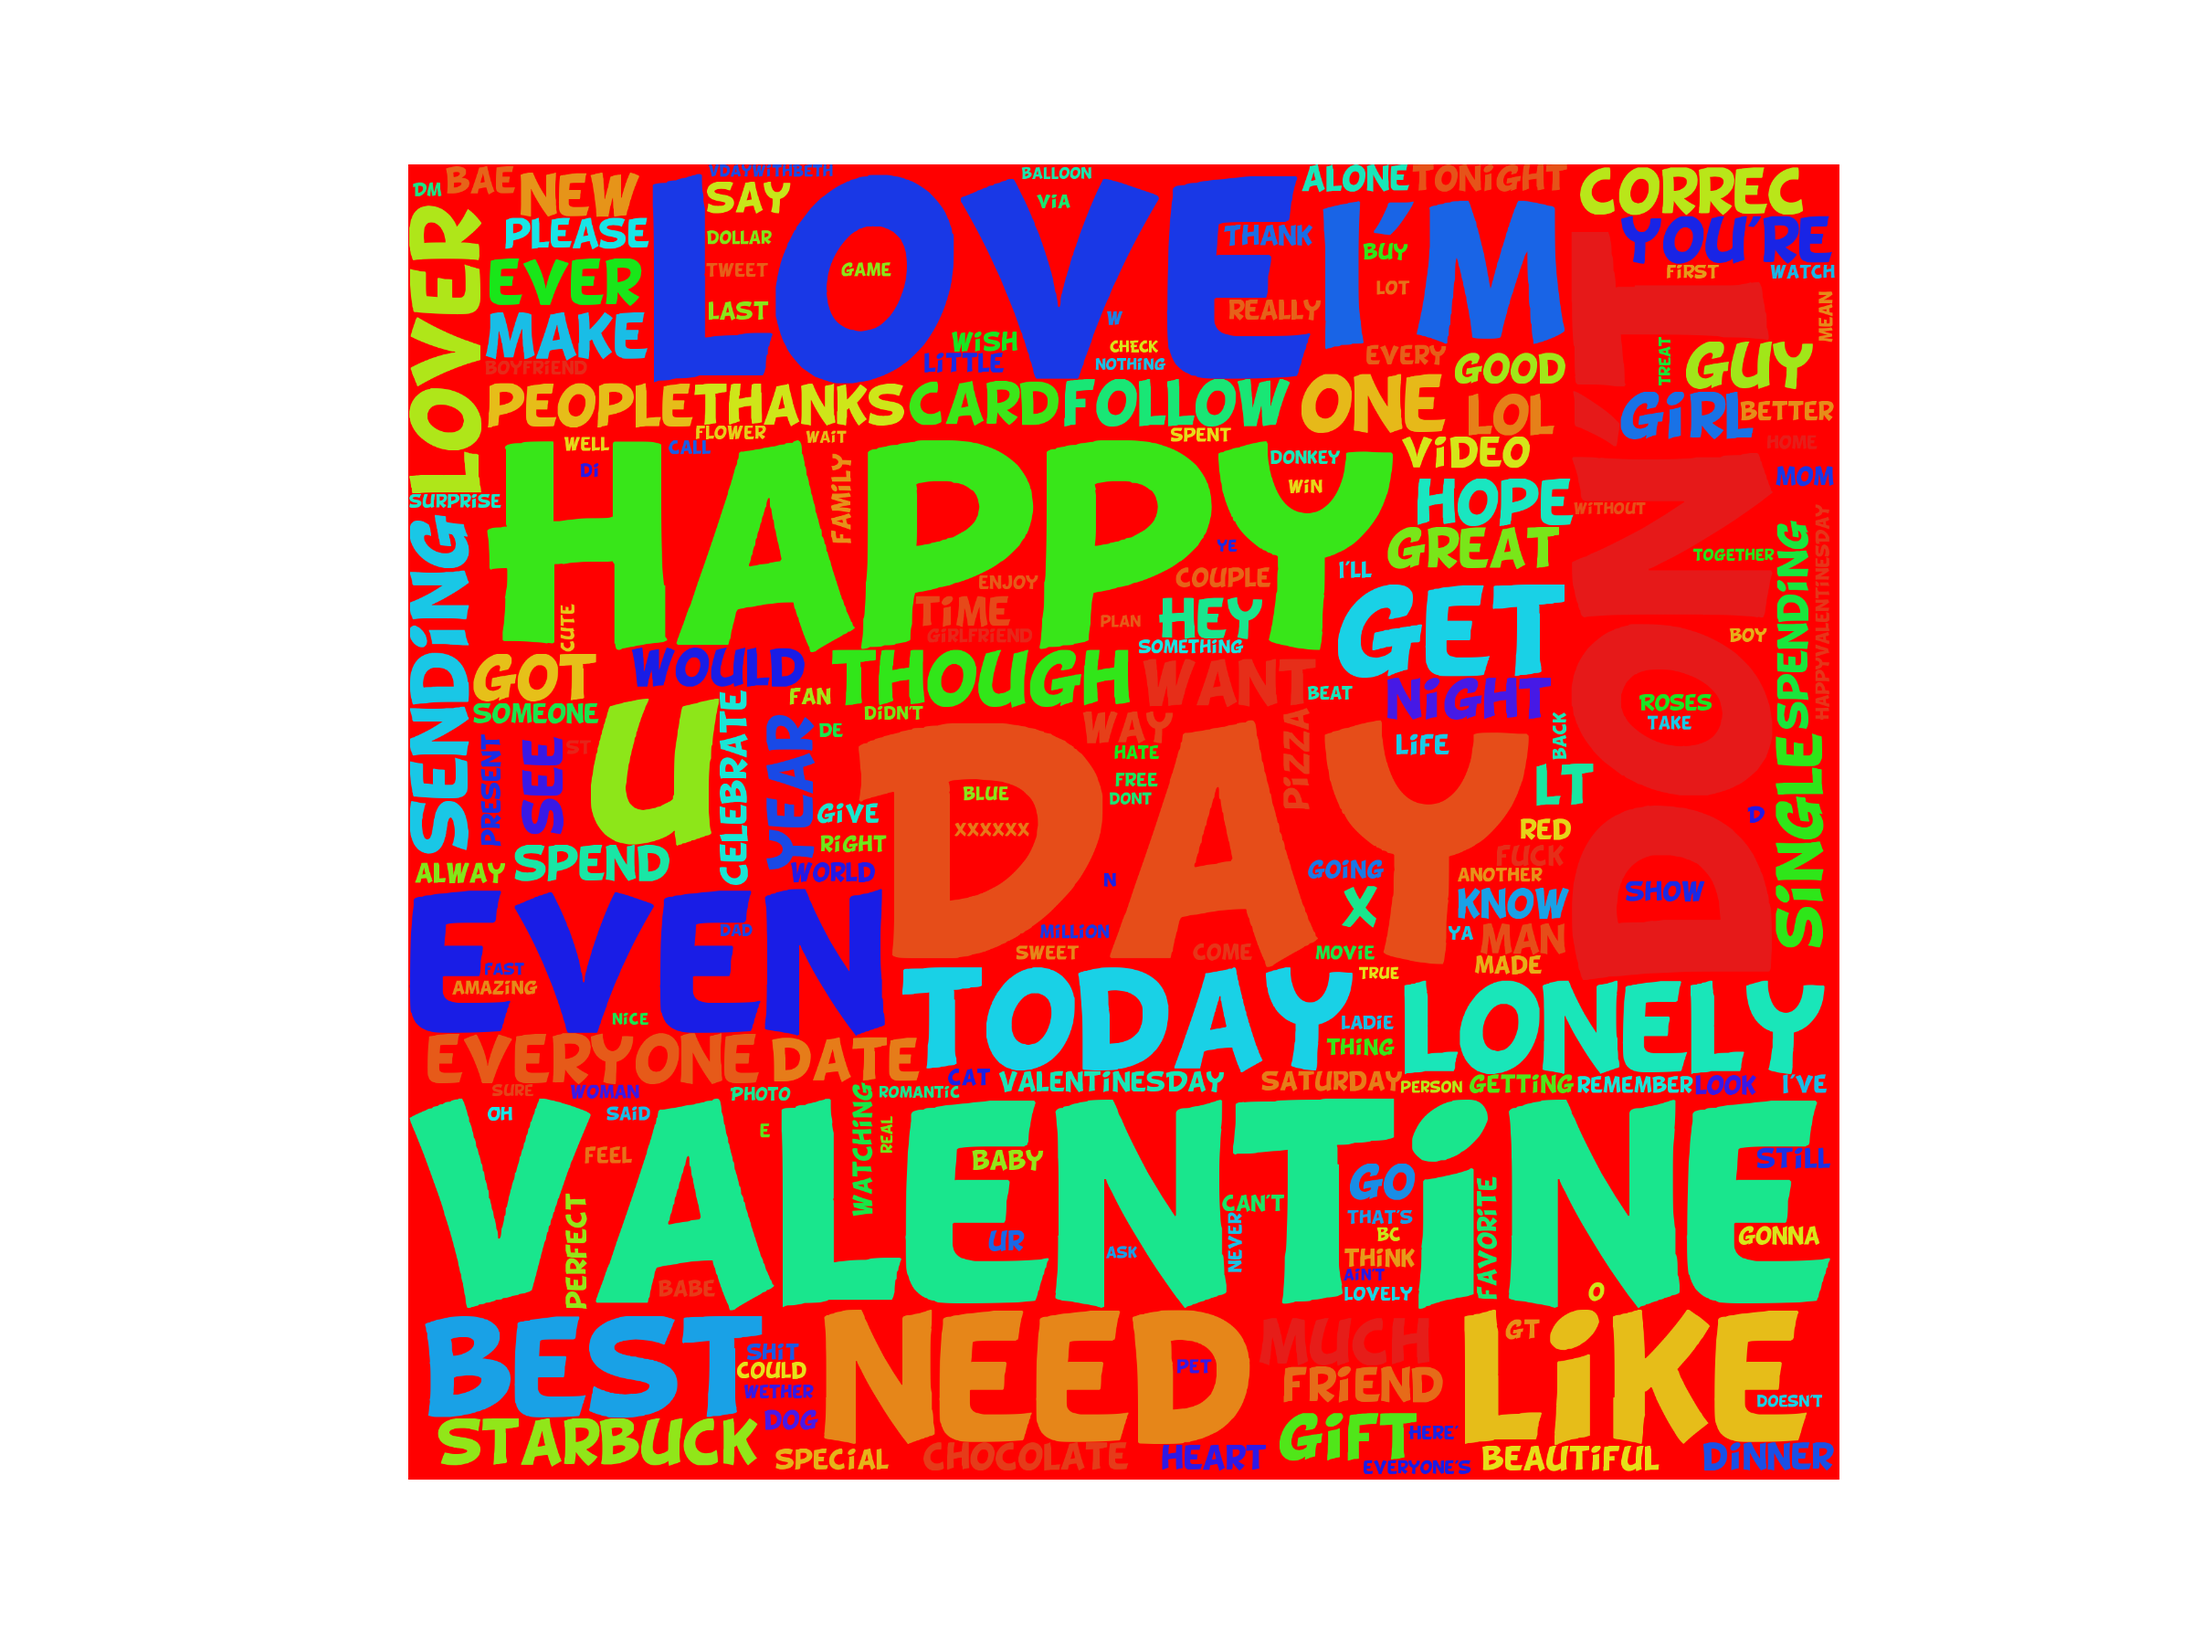
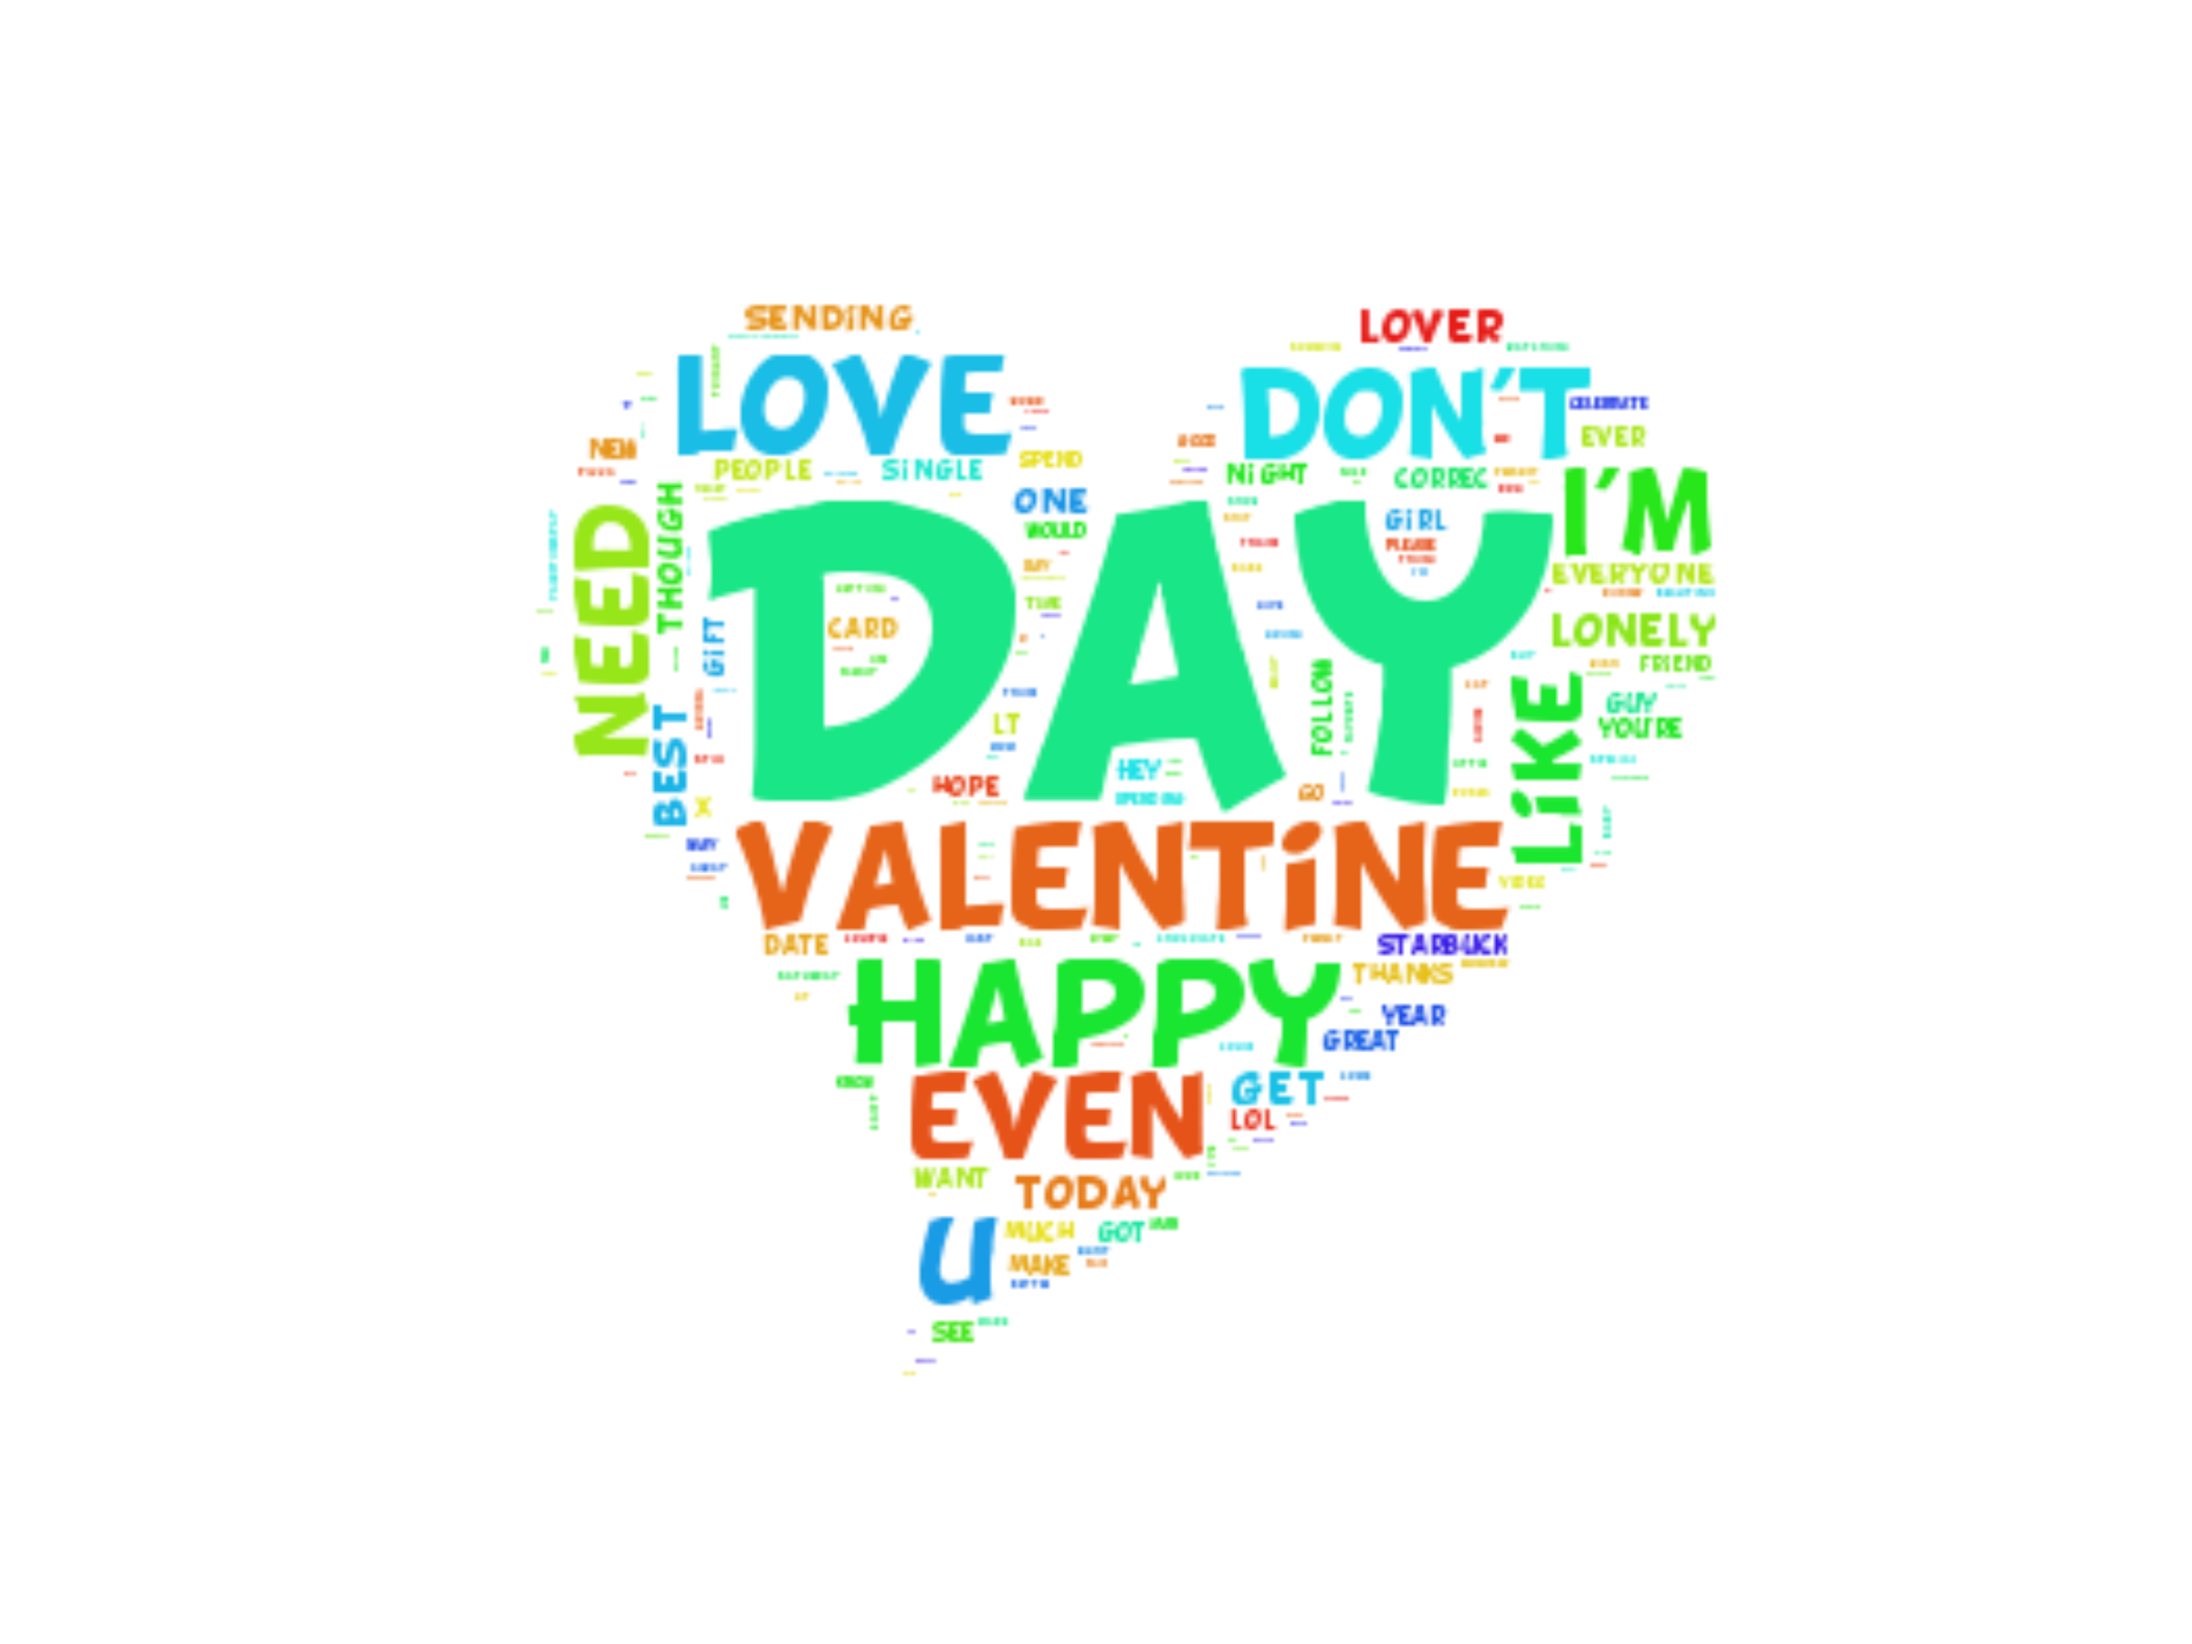
Change image background

diff --git a/src/wordFreq.py b/src/wordFreq.py
@@ -39,14 +39,14 @@ stop.add("valentine's")
 word_cloud = WordCloud(
   font_path='/Users/MariaJ/Library/Fonts/BD_Cartoon_Shout.ttf',
   stopwords=stop,
-  background_color='black',
+  background_color='white',
   width=2500,
   height=2300,
   mask=heart_mask
   ).generate(no_urls_no_tags)
 plt.imshow(word_cloud)
 plt.axis('off')
-plt.savefig('../images/valentine.png', dpi=300)
+plt.savefig('../images/valentine_block.png', dpi=300)
 plt.show()
 
 
